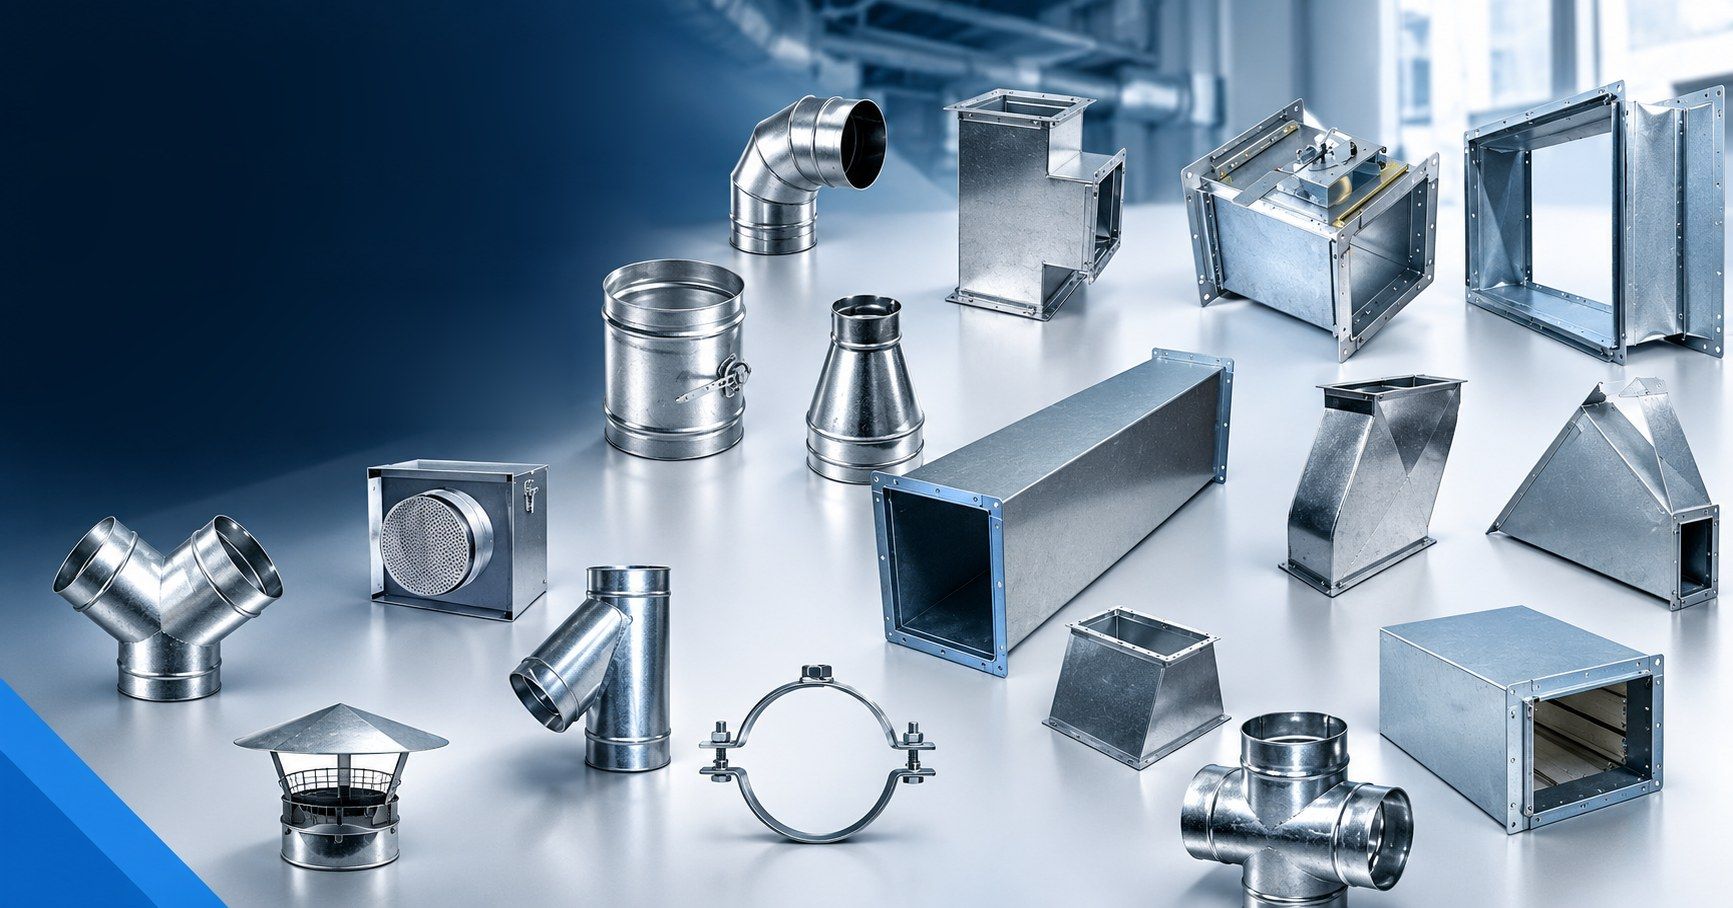
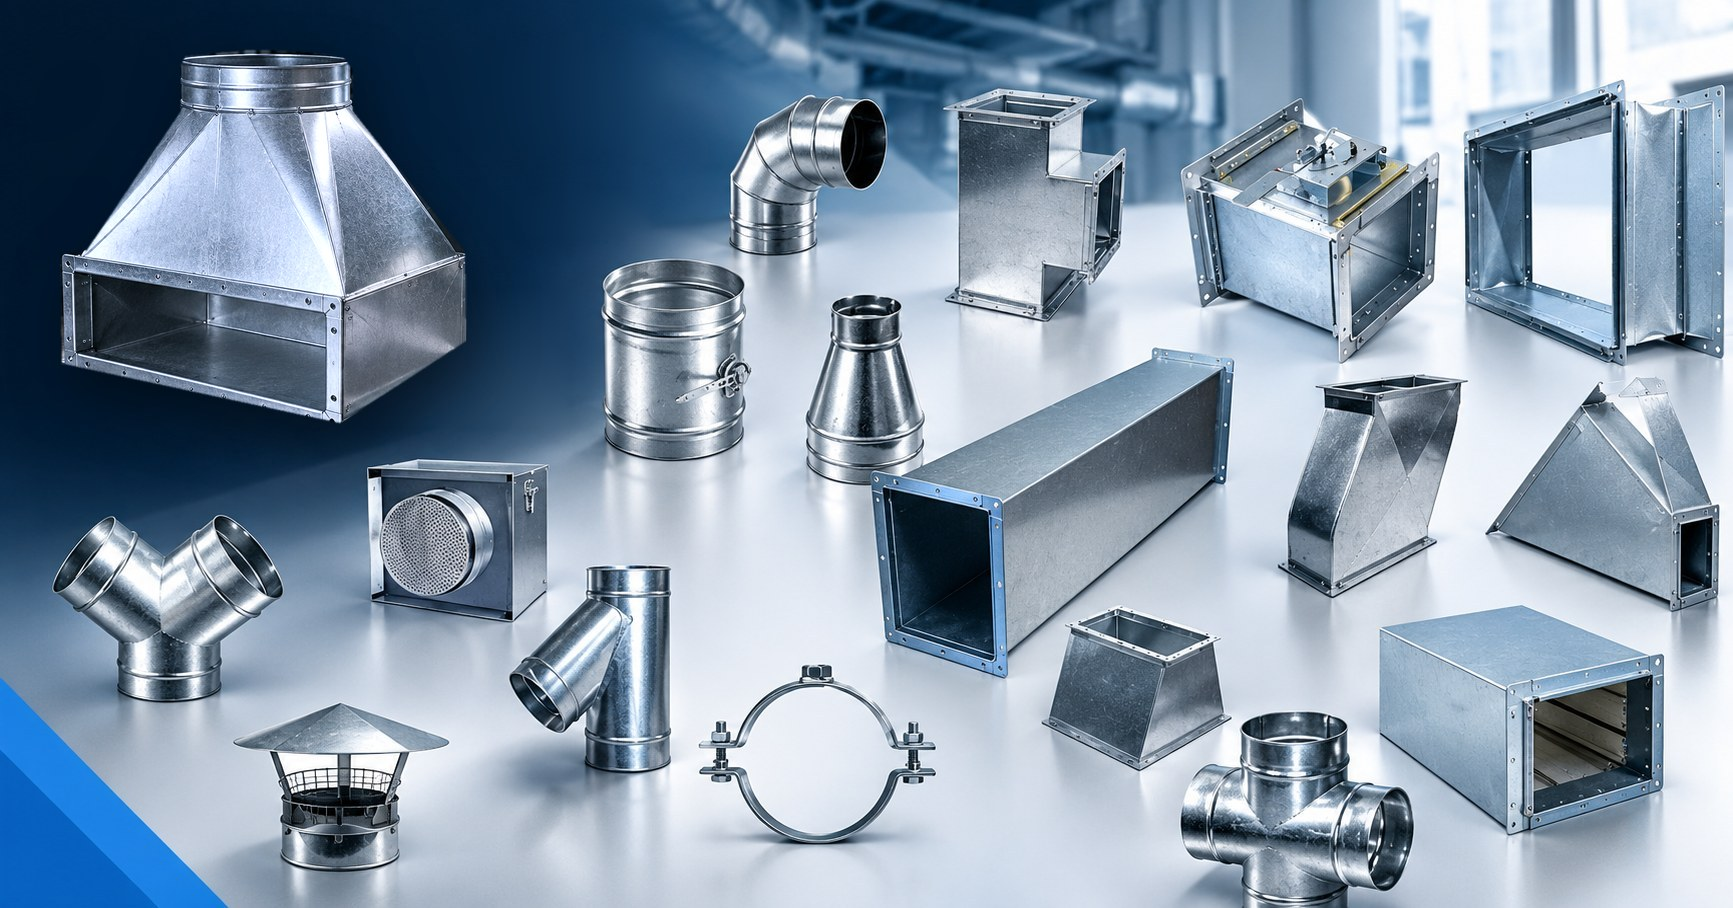
Fill the empty panel with the transition from the link preview
The left panel has been bare since the banner text came off. Drops in the
rectangular-to-round transition — the same part that headlines og.jpg — so
the two images share a subject.

Cut out by tracing the silhouette: the part sits against a workshop, not a
flat backdrop, so a brightness threshold pulls in the table and the duct
behind it. Composited with a soft shadow and a cool cast to match the
line-up's studio light.

Claude-Session: https://claude.ai/code/session_01BqZmAKPSiT8aZjQG1cCHvv

Changed region(s): [[0.0312, 0.0308, 0.2804, 0.4626]]

diff --git a/ventsai/img/README.md b/ventsai/img/README.md
@@ -33,7 +33,14 @@
 оставлены — это не надписи, а фон, и на панели теперь есть чистое место,
 если захочется положить туда текст уже вёрсткой, а не в самой картинке.
 
-1733×908, 250 КБ. Палитра осталась исходной, сине-стальной. Перекрасить
+На освободившееся место слева вставлен переход прямоугольный–круглый —
+та самая деталь, что стоит на превью для соцсетей (`ventsai/v3/og.jpg`).
+Вырезан из баннера полигоном по силуэту: фон там — цех, а не белая заливка,
+так что порогом по яркости деталь не отделяется. Под деталь подложена
+мягкая тень, иначе она висела в воздухе на пустой панели, и подмешан
+холодный оттенок — свет в раскладке синее, чем на баннере.
+
+1733×908, 282 КБ. Палитра осталась исходной, сине-стальной. Перекрасить
 плашку в `--acc` тем же приёмом, что применён к `og.jpg`, здесь **не
 получится**: в отличие от того баннера, тут насыщенно-синий не только
 у плашки, но и в самом фото — свет в студии синий, потолочные воздуховоды
